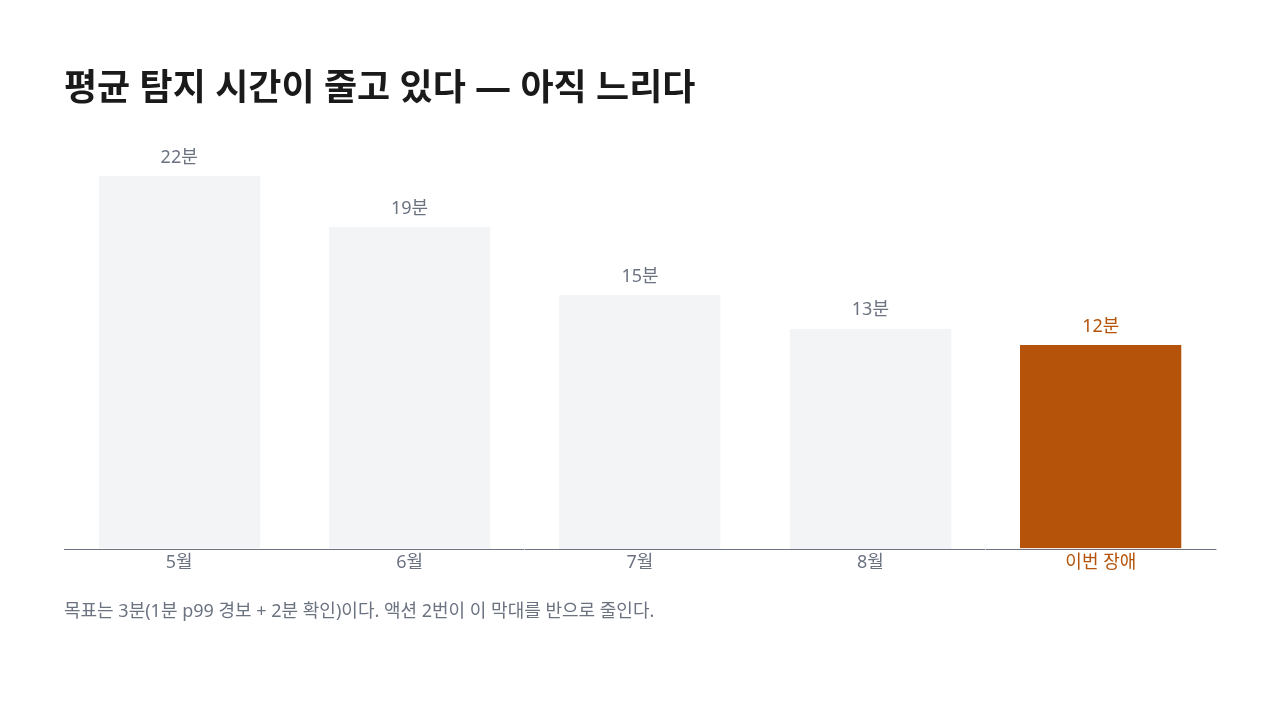
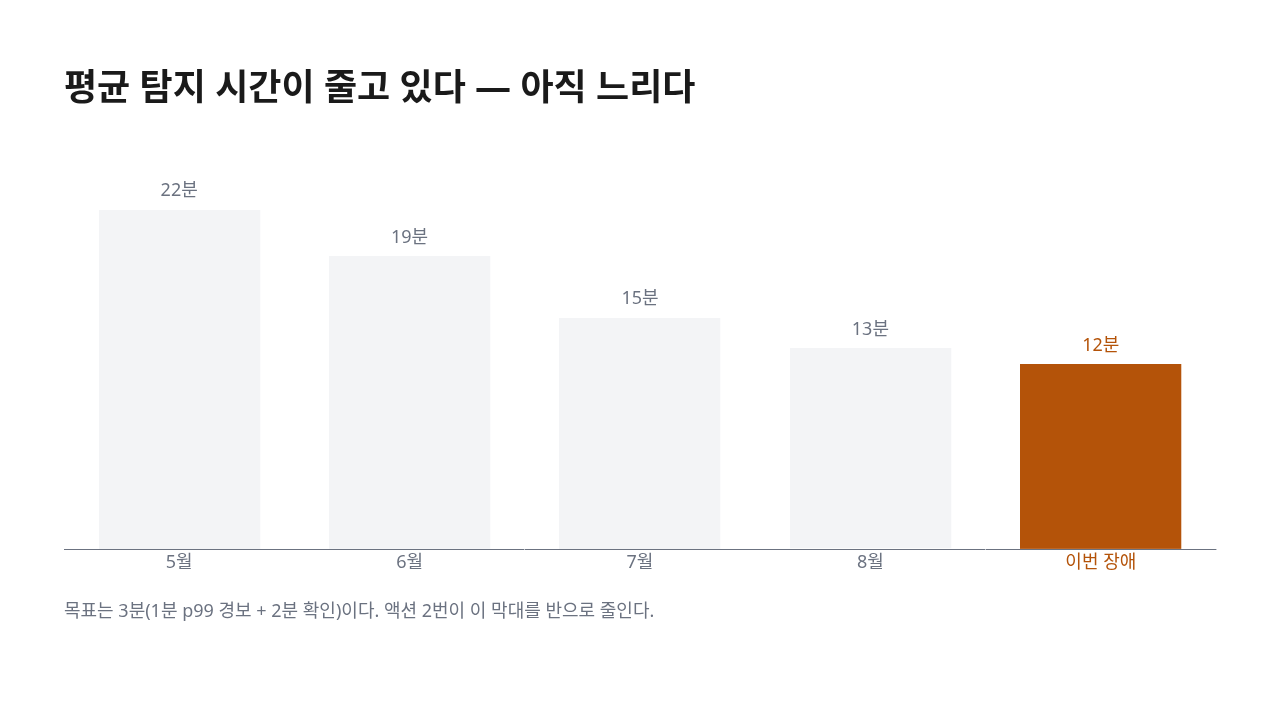
doc: re-render showcase after the chart and inline-space fixes

diff --git a/examples/showcase/decks/incident-postmortem/index.html b/examples/showcase/decks/incident-postmortem/index.html
@@ -859,66 +859,75 @@
 <h2 class="balpyo-text" data-balpyo-id="s7.0" data-balpyo-el="h2" style="font-family: var(--balpyo-font-heading); font-size: 36px; font-weight: 700; line-height: 1.3; color: var(--balpyo-color-fg); text-align: start">평균 탐지 시간이 줄고 있다 — 아직 느리다</h2>
 <div class="balpyo-shape" data-balpyo-id="s7.1" data-balpyo-el="shape" style="width: 100%; height: 440px">
 <svg class="balpyo-shape-ink" role="img" aria-label="월별 평균 탐지 시간 — 5월 22분에서 이번 장애 12분까지" style="fill: none; stroke: none"><rect width="100%" height="100%"/></svg>
-<div class="balpyo-row" data-balpyo-id="s7.1.0" data-balpyo-el="row" style="gap: 0px; align-items: stretch; height: 100%">
-<div class="balpyo-col" data-balpyo-id="s7.1.0.0" data-balpyo-el="col" style="gap: 0px; align-items: center; height: 100%; flex-grow: 1; flex-basis: 0px">
-<div class="balpyo-col" data-balpyo-id="s7.1.0.0.0" data-balpyo-el="col" style="gap: var(--balpyo-space-xs); align-items: center; justify-content: end; width: 100%; flex-grow: 1; flex-basis: 0px">
-<div class="balpyo-text" data-balpyo-id="s7.1.0.0.0.0" data-balpyo-el="text" style="font-family: var(--balpyo-font-body); font-size: 18px; font-weight: 400; line-height: 1.4; color: var(--balpyo-color-muted); text-align: center; width: 100%">22분</div>
-<div class="balpyo-shape" data-balpyo-id="s7.1.0.0.0.1" data-balpyo-el="shape" style="width: 70%; height: 90%; flex-shrink: 0">
+<div class="balpyo-col" data-balpyo-id="s7.1.0" data-balpyo-el="col" style="gap: 0px; width: 100%; height: 100%">
+<div class="balpyo-row" data-balpyo-id="s7.1.0.0" data-balpyo-el="row" style="gap: 0px; align-items: stretch; width: 100%; flex-grow: 1; flex-basis: 0px">
+<div class="balpyo-col" data-balpyo-id="s7.1.0.0.0" data-balpyo-el="col" style="gap: 0px; align-items: center; flex-grow: 1; flex-basis: 0px">
+<div class="balpyo-col" data-balpyo-id="s7.1.0.0.0.0" data-balpyo-el="col" style="gap: var(--balpyo-space-xs); align-items: center; width: 100%; flex-grow: 1; flex-basis: 0px">
+<div class="balpyo-spacer" data-balpyo-id="s7.1.0.0.0.0.0" data-balpyo-el="spacer" style="flex-grow: 0; flex-basis: 10%"></div>
+<div class="balpyo-text" data-balpyo-id="s7.1.0.0.0.0.1" data-balpyo-el="text" style="font-family: var(--balpyo-font-body); font-size: 18px; font-weight: 400; line-height: 1.4; color: var(--balpyo-color-muted); text-align: center; width: 100%; flex-shrink: 0">22분</div>
+<div class="balpyo-shape" data-balpyo-id="s7.1.0.0.0.0.2" data-balpyo-el="shape" style="width: 70%; flex-basis: 90%">
 <svg class="balpyo-shape-ink" aria-hidden="true" style="fill: var(--balpyo-color-surface); stroke: none"><rect width="100%" height="100%"/></svg>
 </div>
 </div>
-<div class="balpyo-shape" data-balpyo-id="s7.1.0.0.1" data-balpyo-el="shape" style="width: 100%; height: 1px">
+<div class="balpyo-shape" data-balpyo-id="s7.1.0.0.0.1" data-balpyo-el="shape" style="width: 100%; height: 1px">
 <svg class="balpyo-shape-ink" aria-hidden="true" style="fill: var(--balpyo-color-muted); stroke: none"><rect width="100%" height="100%"/></svg>
 </div>
-<div class="balpyo-text" data-balpyo-id="s7.1.0.0.2" data-balpyo-el="text" style="font-family: var(--balpyo-font-body); font-size: 18px; font-weight: 400; line-height: 1.4; color: var(--balpyo-color-muted); text-align: center; width: 100%">5월</div>
 </div>
-<div class="balpyo-col" data-balpyo-id="s7.1.0.1" data-balpyo-el="col" style="gap: 0px; align-items: center; height: 100%; flex-grow: 1; flex-basis: 0px">
-<div class="balpyo-col" data-balpyo-id="s7.1.0.1.0" data-balpyo-el="col" style="gap: var(--balpyo-space-xs); align-items: center; justify-content: end; width: 100%; flex-grow: 1; flex-basis: 0px">
-<div class="balpyo-text" data-balpyo-id="s7.1.0.1.0.0" data-balpyo-el="text" style="font-family: var(--balpyo-font-body); font-size: 18px; font-weight: 400; line-height: 1.4; color: var(--balpyo-color-muted); text-align: center; width: 100%">19분</div>
-<div class="balpyo-shape" data-balpyo-id="s7.1.0.1.0.1" data-balpyo-el="shape" style="width: 70%; height: 77.73%; flex-shrink: 0">
+<div class="balpyo-col" data-balpyo-id="s7.1.0.0.1" data-balpyo-el="col" style="gap: 0px; align-items: center; flex-grow: 1; flex-basis: 0px">
+<div class="balpyo-col" data-balpyo-id="s7.1.0.0.1.0" data-balpyo-el="col" style="gap: var(--balpyo-space-xs); align-items: center; width: 100%; flex-grow: 1; flex-basis: 0px">
+<div class="balpyo-spacer" data-balpyo-id="s7.1.0.0.1.0.0" data-balpyo-el="spacer" style="flex-grow: 0; flex-basis: 22.27%"></div>
+<div class="balpyo-text" data-balpyo-id="s7.1.0.0.1.0.1" data-balpyo-el="text" style="font-family: var(--balpyo-font-body); font-size: 18px; font-weight: 400; line-height: 1.4; color: var(--balpyo-color-muted); text-align: center; width: 100%; flex-shrink: 0">19분</div>
+<div class="balpyo-shape" data-balpyo-id="s7.1.0.0.1.0.2" data-balpyo-el="shape" style="width: 70%; flex-basis: 77.73%">
 <svg class="balpyo-shape-ink" aria-hidden="true" style="fill: var(--balpyo-color-surface); stroke: none"><rect width="100%" height="100%"/></svg>
 </div>
 </div>
-<div class="balpyo-shape" data-balpyo-id="s7.1.0.1.1" data-balpyo-el="shape" style="width: 100%; height: 1px">
+<div class="balpyo-shape" data-balpyo-id="s7.1.0.0.1.1" data-balpyo-el="shape" style="width: 100%; height: 1px">
 <svg class="balpyo-shape-ink" aria-hidden="true" style="fill: var(--balpyo-color-muted); stroke: none"><rect width="100%" height="100%"/></svg>
 </div>
-<div class="balpyo-text" data-balpyo-id="s7.1.0.1.2" data-balpyo-el="text" style="font-family: var(--balpyo-font-body); font-size: 18px; font-weight: 400; line-height: 1.4; color: var(--balpyo-color-muted); text-align: center; width: 100%">6월</div>
 </div>
-<div class="balpyo-col" data-balpyo-id="s7.1.0.2" data-balpyo-el="col" style="gap: 0px; align-items: center; height: 100%; flex-grow: 1; flex-basis: 0px">
-<div class="balpyo-col" data-balpyo-id="s7.1.0.2.0" data-balpyo-el="col" style="gap: var(--balpyo-space-xs); align-items: center; justify-content: end; width: 100%; flex-grow: 1; flex-basis: 0px">
-<div class="balpyo-text" data-balpyo-id="s7.1.0.2.0.0" data-balpyo-el="text" style="font-family: var(--balpyo-font-body); font-size: 18px; font-weight: 400; line-height: 1.4; color: var(--balpyo-color-muted); text-align: center; width: 100%">15분</div>
-<div class="balpyo-shape" data-balpyo-id="s7.1.0.2.0.1" data-balpyo-el="shape" style="width: 70%; height: 61.36%; flex-shrink: 0">
+<div class="balpyo-col" data-balpyo-id="s7.1.0.0.2" data-balpyo-el="col" style="gap: 0px; align-items: center; flex-grow: 1; flex-basis: 0px">
+<div class="balpyo-col" data-balpyo-id="s7.1.0.0.2.0" data-balpyo-el="col" style="gap: var(--balpyo-space-xs); align-items: center; width: 100%; flex-grow: 1; flex-basis: 0px">
+<div class="balpyo-spacer" data-balpyo-id="s7.1.0.0.2.0.0" data-balpyo-el="spacer" style="flex-grow: 0; flex-basis: 38.64%"></div>
+<div class="balpyo-text" data-balpyo-id="s7.1.0.0.2.0.1" data-balpyo-el="text" style="font-family: var(--balpyo-font-body); font-size: 18px; font-weight: 400; line-height: 1.4; color: var(--balpyo-color-muted); text-align: center; width: 100%; flex-shrink: 0">15분</div>
+<div class="balpyo-shape" data-balpyo-id="s7.1.0.0.2.0.2" data-balpyo-el="shape" style="width: 70%; flex-basis: 61.36%">
 <svg class="balpyo-shape-ink" aria-hidden="true" style="fill: var(--balpyo-color-surface); stroke: none"><rect width="100%" height="100%"/></svg>
 </div>
 </div>
-<div class="balpyo-shape" data-balpyo-id="s7.1.0.2.1" data-balpyo-el="shape" style="width: 100%; height: 1px">
+<div class="balpyo-shape" data-balpyo-id="s7.1.0.0.2.1" data-balpyo-el="shape" style="width: 100%; height: 1px">
 <svg class="balpyo-shape-ink" aria-hidden="true" style="fill: var(--balpyo-color-muted); stroke: none"><rect width="100%" height="100%"/></svg>
 </div>
-<div class="balpyo-text" data-balpyo-id="s7.1.0.2.2" data-balpyo-el="text" style="font-family: var(--balpyo-font-body); font-size: 18px; font-weight: 400; line-height: 1.4; color: var(--balpyo-color-muted); text-align: center; width: 100%">7월</div>
 </div>
-<div class="balpyo-col" data-balpyo-id="s7.1.0.3" data-balpyo-el="col" style="gap: 0px; align-items: center; height: 100%; flex-grow: 1; flex-basis: 0px">
-<div class="balpyo-col" data-balpyo-id="s7.1.0.3.0" data-balpyo-el="col" style="gap: var(--balpyo-space-xs); align-items: center; justify-content: end; width: 100%; flex-grow: 1; flex-basis: 0px">
-<div class="balpyo-text" data-balpyo-id="s7.1.0.3.0.0" data-balpyo-el="text" style="font-family: var(--balpyo-font-body); font-size: 18px; font-weight: 400; line-height: 1.4; color: var(--balpyo-color-muted); text-align: center; width: 100%">13분</div>
-<div class="balpyo-shape" data-balpyo-id="s7.1.0.3.0.1" data-balpyo-el="shape" style="width: 70%; height: 53.18%; flex-shrink: 0">
+<div class="balpyo-col" data-balpyo-id="s7.1.0.0.3" data-balpyo-el="col" style="gap: 0px; align-items: center; flex-grow: 1; flex-basis: 0px">
+<div class="balpyo-col" data-balpyo-id="s7.1.0.0.3.0" data-balpyo-el="col" style="gap: var(--balpyo-space-xs); align-items: center; width: 100%; flex-grow: 1; flex-basis: 0px">
+<div class="balpyo-spacer" data-balpyo-id="s7.1.0.0.3.0.0" data-balpyo-el="spacer" style="flex-grow: 0; flex-basis: 46.82%"></div>
+<div class="balpyo-text" data-balpyo-id="s7.1.0.0.3.0.1" data-balpyo-el="text" style="font-family: var(--balpyo-font-body); font-size: 18px; font-weight: 400; line-height: 1.4; color: var(--balpyo-color-muted); text-align: center; width: 100%; flex-shrink: 0">13분</div>
+<div class="balpyo-shape" data-balpyo-id="s7.1.0.0.3.0.2" data-balpyo-el="shape" style="width: 70%; flex-basis: 53.18%">
 <svg class="balpyo-shape-ink" aria-hidden="true" style="fill: var(--balpyo-color-surface); stroke: none"><rect width="100%" height="100%"/></svg>
 </div>
 </div>
-<div class="balpyo-shape" data-balpyo-id="s7.1.0.3.1" data-balpyo-el="shape" style="width: 100%; height: 1px">
+<div class="balpyo-shape" data-balpyo-id="s7.1.0.0.3.1" data-balpyo-el="shape" style="width: 100%; height: 1px">
 <svg class="balpyo-shape-ink" aria-hidden="true" style="fill: var(--balpyo-color-muted); stroke: none"><rect width="100%" height="100%"/></svg>
 </div>
-<div class="balpyo-text" data-balpyo-id="s7.1.0.3.2" data-balpyo-el="text" style="font-family: var(--balpyo-font-body); font-size: 18px; font-weight: 400; line-height: 1.4; color: var(--balpyo-color-muted); text-align: center; width: 100%">8월</div>
 </div>
-<div class="balpyo-col" data-balpyo-id="s7.1.0.4" data-balpyo-el="col" style="gap: 0px; align-items: center; height: 100%; flex-grow: 1; flex-basis: 0px">
-<div class="balpyo-col" data-balpyo-id="s7.1.0.4.0" data-balpyo-el="col" style="gap: var(--balpyo-space-xs); align-items: center; justify-content: end; width: 100%; flex-grow: 1; flex-basis: 0px">
-<div class="balpyo-text" data-balpyo-id="s7.1.0.4.0.0" data-balpyo-el="text" style="font-family: var(--balpyo-font-body); font-size: 18px; font-weight: 400; line-height: 1.4; color: var(--balpyo-color-accent4); text-align: center; width: 100%">12분</div>
-<div class="balpyo-shape" data-balpyo-id="s7.1.0.4.0.1" data-balpyo-el="shape" style="width: 70%; height: 49.09%; flex-shrink: 0">
+<div class="balpyo-col" data-balpyo-id="s7.1.0.0.4" data-balpyo-el="col" style="gap: 0px; align-items: center; flex-grow: 1; flex-basis: 0px">
+<div class="balpyo-col" data-balpyo-id="s7.1.0.0.4.0" data-balpyo-el="col" style="gap: var(--balpyo-space-xs); align-items: center; width: 100%; flex-grow: 1; flex-basis: 0px">
+<div class="balpyo-spacer" data-balpyo-id="s7.1.0.0.4.0.0" data-balpyo-el="spacer" style="flex-grow: 0; flex-basis: 50.91%"></div>
+<div class="balpyo-text" data-balpyo-id="s7.1.0.0.4.0.1" data-balpyo-el="text" style="font-family: var(--balpyo-font-body); font-size: 18px; font-weight: 400; line-height: 1.4; color: var(--balpyo-color-accent4); text-align: center; width: 100%; flex-shrink: 0">12분</div>
+<div class="balpyo-shape" data-balpyo-id="s7.1.0.0.4.0.2" data-balpyo-el="shape" style="width: 70%; flex-basis: 49.09%">
 <svg class="balpyo-shape-ink" aria-hidden="true" style="fill: var(--balpyo-color-accent4); stroke: none"><rect width="100%" height="100%"/></svg>
 </div>
 </div>
-<div class="balpyo-shape" data-balpyo-id="s7.1.0.4.1" data-balpyo-el="shape" style="width: 100%; height: 1px">
+<div class="balpyo-shape" data-balpyo-id="s7.1.0.0.4.1" data-balpyo-el="shape" style="width: 100%; height: 1px">
 <svg class="balpyo-shape-ink" aria-hidden="true" style="fill: var(--balpyo-color-muted); stroke: none"><rect width="100%" height="100%"/></svg>
 </div>
-<div class="balpyo-text" data-balpyo-id="s7.1.0.4.2" data-balpyo-el="text" style="font-family: var(--balpyo-font-body); font-size: 18px; font-weight: 400; line-height: 1.4; color: var(--balpyo-color-accent4); text-align: center; width: 100%">이번 장애</div>
+</div>
+</div>
+<div class="balpyo-row" data-balpyo-id="s7.1.0.1" data-balpyo-el="row" style="gap: 0px; width: 100%">
+<div class="balpyo-text" data-balpyo-id="s7.1.0.1.0" data-balpyo-el="text" style="font-family: var(--balpyo-font-body); font-size: 18px; font-weight: 400; line-height: 1.4; color: var(--balpyo-color-muted); text-align: center; width: 100%; flex-grow: 1; flex-basis: 0px">5월</div>
+<div class="balpyo-text" data-balpyo-id="s7.1.0.1.1" data-balpyo-el="text" style="font-family: var(--balpyo-font-body); font-size: 18px; font-weight: 400; line-height: 1.4; color: var(--balpyo-color-muted); text-align: center; width: 100%; flex-grow: 1; flex-basis: 0px">6월</div>
+<div class="balpyo-text" data-balpyo-id="s7.1.0.1.2" data-balpyo-el="text" style="font-family: var(--balpyo-font-body); font-size: 18px; font-weight: 400; line-height: 1.4; color: var(--balpyo-color-muted); text-align: center; width: 100%; flex-grow: 1; flex-basis: 0px">7월</div>
+<div class="balpyo-text" data-balpyo-id="s7.1.0.1.3" data-balpyo-el="text" style="font-family: var(--balpyo-font-body); font-size: 18px; font-weight: 400; line-height: 1.4; color: var(--balpyo-color-muted); text-align: center; width: 100%; flex-grow: 1; flex-basis: 0px">8월</div>
+<div class="balpyo-text" data-balpyo-id="s7.1.0.1.4" data-balpyo-el="text" style="font-family: var(--balpyo-font-body); font-size: 18px; font-weight: 400; line-height: 1.4; color: var(--balpyo-color-accent4); text-align: center; width: 100%; flex-grow: 1; flex-basis: 0px">이번 장애</div>
 </div>
 </div>
 </div>

diff --git a/examples/showcase/decks/ec2-intro/index.html b/examples/showcase/decks/ec2-intro/index.html
@@ -896,7 +896,7 @@
 <div class="balpyo-shape" data-balpyo-id="s3.2.1.0" data-balpyo-el="shape" style="width: 100%; height: 3px">
 <svg class="balpyo-shape-ink" aria-hidden="true" style="fill: var(--balpyo-color-fg); stroke: none"><rect width="100%" height="100%"/></svg>
 </div>
-<div class="balpyo-text" data-balpyo-id="s3.2.1.1" data-balpyo-el="text" style="font-family: var(--balpyo-font-heading); font-size: 56px; font-weight: 700; line-height: 1.2; color: var(--balpyo-color-fg); text-align: start">1<span style="font-family: var(--balpyo-font-heading); font-size: 28px; font-weight: 700; line-height: 1.2; color: var(--balpyo-color-fg); text-align: start; font-style: normal; text-decoration: none">s</span></div>
+<div class="balpyo-text" data-balpyo-id="s3.2.1.1" data-balpyo-el="text" style="font-family: var(--balpyo-font-heading); font-size: 56px; font-weight: 700; line-height: 1.2; color: var(--balpyo-color-fg); text-align: start">1<span style="font-family: var(--balpyo-font-heading); font-size: 28px; font-weight: 700; line-height: 1.2; color: var(--balpyo-color-fg); text-align: start; font-style: normal; text-decoration: none"> s</span></div>
 <div class="balpyo-text" data-balpyo-id="s3.2.1.2" data-balpyo-el="text" style="font-family: var(--balpyo-font-body); font-size: 18px; font-weight: 400; line-height: 1.4; color: var(--balpyo-color-muted); text-align: start">billing granularity for Linux and Windows</div>
 </div>
 <div class="balpyo-col" data-balpyo-id="s3.2.2" data-balpyo-el="col" style="gap: var(--balpyo-space-xs)">
